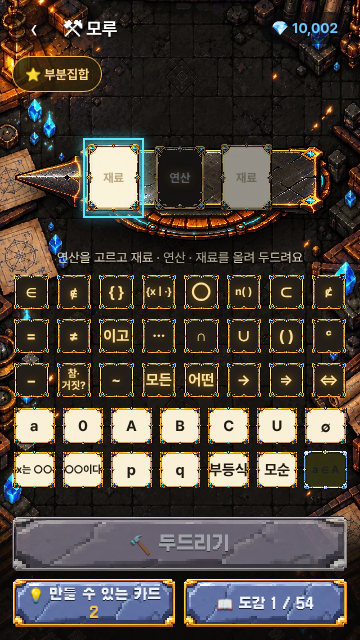
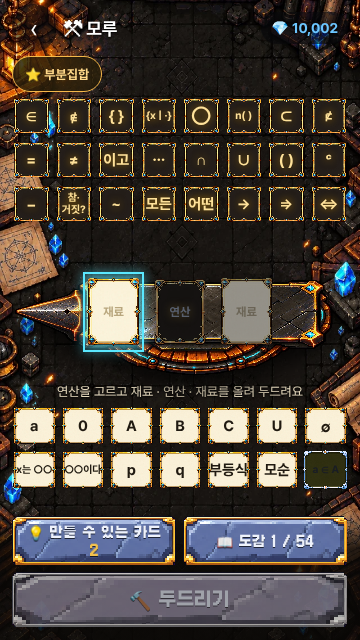
b36 #150 ⚒ 모루 배치 · 주요 단추 자리 · 📖 도감 특전 3줄
- ① 줄 순서 = ⭐ 찜 → 연산 카드 줄(위) → 모루 판(가운데) → 재료 카드 줄(아래) → 💡 · 📖 줄 → 🔨 두드리기(맨 아래)
- 모루 모든 화면 주요 단추 = 맨 아래 같은 자리 · 같은 크기: ① 🔨 두드리기 · ② ✨ 마력 넣기 · ③ 💡 목록 「⚒ 모루로」 · ④ 도감 「⚒ 모루로」(💡 목록 = 시트 → 화면)
- 📖 도감 특전 3줄(정식 PERKS · 문구 · 값 그대로): 🧑 성기사 발도르 1~3차시(부분집합의 개수 빼고) · 무희 셰라 4~6 · 음유시인 리라 8~11 · 「💎 60 먼저 열기」 · 다 모으면 열림 · 💎 로 먼저 열었으면 돌려받음
- 시험: e2e anvil(줄 순서 · 네 화면 주요 단추 top 572 · 높이 56 같음 · 특전 3줄 · 11 테마 넘침 0)

Claude-Session: https://claude.ai/code/session_014JJv1kfRHM8SAjsHDCgfJ5

diff --git a/src/ui/forge/Anvil.svelte b/src/ui/forge/Anvil.svelte
@@ -9,6 +9,9 @@
   import Sheet from '../battle/Sheet.svelte';
   import RuneKeypad from '../q/RuneKeypad.svelte';
   import ForgeCard from './ForgeCard.svelte';
+  import HeroSprite from '../camp/HeroSprite.svelte';
+  import { heroOf } from '../../model/hero';
+  import { ECON_VER } from '../../model/wallet';
 
   // ⚒ 모루 (#148 · 정식 js/raid/forge.js 「C안」 + 시안 44dEkAKGELJTBPUs2gkwnD ①~④) — 정식 그림 · 틀 그대로(forgec 바탕 · 모루 · 재료 흰 틀 · 연산 검은 틀 · 고른 칸 푸른 빛 · 망치)
   //   엄격 연성 · 모두 열림(진도 상관없음) · 처음 만든 카드 = 마력 예제를 맞혀야 완성 · 실패 = 💡 힌트 조각 +1(최대 9 · 처음 2) · 첫 카드 💎 +3(하루 한도 밖) · 카드는 공격에 안 씀
@@ -74,13 +77,34 @@
     const c = exam; exam = null;
     strike().then(() => (reveal = { c, first: true }));
   }
+  // 📖 도감 특전 (정식 PERKS · 문구 · 값 그대로): 그 차시 카드를 다 모으면 용사 열림 · 💎 로 먼저 열기 → 다 모으면 돌려받음(되팔기 아님)
+  const PERKS = SUBJ.forge!.perks ?? [];
+  const perkCards = (p: { a: number; b: number; skip?: string }) => U.CARDS.filter((c) => c.no >= p.a && c.no <= p.b && c.id !== p.skip);
+  const heroName = (id: number) => `${heroOf(id).job} ${heroOf(id).name}`;
+  const bought = (id: number) => me.wallet.buys.some((b) => b.id === `hero_${id}`);
+  const logHas = (k: string) => (me.wallet.log || []).includes(k);
+  let ptoast = $state('');
+  function buyPerk(id: number) {
+    const price = heroOf(id).price ?? 0;
+    if (me.wallet.gem < price || !window.confirm(`💎 ${price} 로 🧑 ${heroName(id)}를 먼저 열까요?\n그 차시 카드를 다 모으면 💎 ${price} 를 돌려받아요 (되팔기는 안 돼요).`)) return;
+    me.wallet.gem -= price; me.wallet.buys = [...me.wallet.buys, { id: `hero_${id}`, ver: ECON_VER, at: Date.now() }]; save();
+    ptoast = `🧑 ${heroName(id)} 열림! 🧙 내 용사에서 골라요`; setTimeout(() => (ptoast = ''), 3000);
+  }
+  function perkCheck(newId: string) {
+    const p = PERKS.find((x) => perkCards(x).some((c) => c.id === newId)); if (!p || logHas(`perk_${p.id}`)) return;
+    if (!perkCards(p).every((c) => me.cards?.[c.id])) return;
+    const price = heroOf(p.id).price ?? 0, was = bought(p.id);
+    if (was) me.wallet.gem += price; else me.wallet.buys = [...me.wallet.buys, { id: `hero_${p.id}`, ver: ECON_VER, at: Date.now() }];
+    me.wallet.log = [...(me.wallet.log || []), `perk_${p.id}`]; save();
+    ptoast = `🎉 🧑 ${heroName(p.id)} 열림!${was ? ` · 💎 ${price} 돌려받았어요` : ''}`; setTimeout(() => (ptoast = ''), 4500);
+  }
   function keep() {
     if (!reveal) return;
-    if (reveal.first) { me.cards = { ...(me.cards || {}), [reveal.c.id]: true }; me.wallet.gem += 3; save(); } // 첫 카드 💎 +3 (하루 한도 밖 · 정식 G.card)
+    if (reveal.first) { me.cards = { ...(me.cards || {}), [reveal.c.id]: true }; me.wallet.gem += 3; save(); perkCheck(reveal.c.id); } // 첫 카드 💎 +3 (하루 한도 밖 · 정식 G.card)
     reveal = null; slots = { l: null, op: null, r: null }; pickK = 'l'; msg = '연산을 고르고 재료 · 연산 · 재료를 올려 두드려요';
   }
   // ── ③ 💡 목록 · ④ 도감 ──
-  let view = $state<'forge' | 'book'>('forge'), listOpen = $state(false), focusId = $state('');
+  let view = $state<'forge' | 'list' | 'book'>('forge'), focusId = $state('');
   const haveN = $derived(U.CARDS.filter((c) => owned[c.id]).length);
   const nos = [...new Set(U.CARDS.map((c) => c.no))].sort((a, b) => a - b);
   const secOf = (n: number) => [...new Set(U.CARDS.filter((c) => c.no === n).map((c) => c.sec))].join(' · ');
@@ -91,9 +115,10 @@
 </script>
 
 <div class="fg" role="dialog" aria-label="모루" style:--bg="url({IMG.bg})" style:--mat="url({IMG.mat})" style:--op="url({IMG.op})" style:--pick="url({IMG.pick})">
-  <div class="bar"><button type="button" class="back" aria-label={view === 'book' ? '모루로' : '캠프로'} onclick={() => (view === 'book' ? (view = 'forge') : onclose())}>‹</button><b class="t">{view === 'book' ? '📖 도감' : '⚒ 모루'}</b><span class="wal">💎 {me.wallet.gem.toLocaleString()}</span></div>
+  <div class="bar"><button type="button" class="back" aria-label={view !== 'forge' ? '모루로' : '캠프로'} onclick={() => (view !== 'forge' ? (view = 'forge') : onclose())}>‹</button><b class="t">{view === 'book' ? '📖 도감' : view === 'list' ? '💡 만들 수 있는 카드' : '⚒ 모루'}</b><span class="wal">💎 {me.wallet.gem.toLocaleString()}</span></div>
   {#if view === 'forge'}
-    {#if wishCards.length}<div class="wishes" role="group" aria-label="찜한 카드">{#each wishCards as c (c.id)}<button type="button" onclick={() => { focusId = c.id; listOpen = true; }}>⭐ {c.short || c.name}</button>{/each}</div>{/if}
+    {#if wishCards.length}<div class="wishes" role="group" aria-label="찜한 카드">{#each wishCards as c (c.id)}<button type="button" onclick={() => { focusId = c.id; view = 'list'; }}>⭐ {c.short || c.name}</button>{/each}</div>{/if}
+    <div class="shelf ops" role="group" aria-label="연산">{#each U.OPS as o (o.id)}<button type="button" class="tile op mini" class:on={slots.op === o.id} class:long={o.sym.length > 3} onclick={() => putOp(o.id)}>{o.sym}</button>{/each}</div>
     <div class="stage" class:impact bind:this={stage}>
       <img class="anvil" src={IMG.anvil} alt="" />
       <div class="slots" class:shake>
@@ -105,37 +130,44 @@
       {#each sparks as s, k (k)}<i class="spark" style:left="{s.x}%" style:--dx="{s.dx}px" style:--dy="{s.dy}px"></i>{/each}
     </div>
     <p class="msg" class:bad>{msg}</p>
-    <div class="shelf ops" role="group" aria-label="연산">{#each U.OPS as o (o.id)}<button type="button" class="tile op mini" class:on={slots.op === o.id} class:long={o.sym.length > 3} onclick={() => putOp(o.id)}>{o.sym}</button>{/each}</div>
     <div class="shelf mats" role="group" aria-label="재료">{#each U.MATS as m (m.id)}<button type="button" class="tile mat mini" class:long={m.sym.length > 3} title={m.tip} onclick={() => put(m.id)}>{m.sym}</button>{/each}{#each putCards as c (c.id)}<button type="button" class="tile mat mini card long" title={c.name} onclick={() => put(`card:${c.id}`)}>{cardFm(c)}</button>{/each}</div>
     <div class="act">
-      <button type="button" class="btn" disabled={!full || busy} onclick={hit}>🔨 두드리기</button>
-      <div class="row2"><button type="button" class="btn2" onclick={() => { focusId = ''; listOpen = true; }}>💡 만들 수 있는 카드 <b>{hint.pts}</b></button><button type="button" class="btn2" onclick={() => (view = 'book')}>📖 도감 {haveN} / {U.CARDS.length}</button></div>
+      <div class="row2"><button type="button" class="btn2" onclick={() => { focusId = ''; view = 'list'; }}>💡 만들 수 있는 카드 <b>{hint.pts}</b></button><button type="button" class="btn2" onclick={() => (view = 'book')}>📖 도감 {haveN} / {U.CARDS.length}</button></div>
+      <button type="button" class="btn main" disabled={!full || busy} onclick={hit}>🔨 두드리기</button>
     </div>
+  {:else if view === 'list'}
+    <!-- ③ 💡 만들 수 있는 카드 -->
+    <div class="book">
+      <p class="why lt">🧩 힌트 조각 <b>{hint.pts}</b> · 두드리기에 실패하면 +1 (벌이 아니라 단서) · 조각으로 재료 → 연산 순서로 열어요</p>
+      {#each [...wishCards.filter((c) => !focusId || c.id === focusId), ...wishCards.filter((c) => focusId && c.id !== focusId)] as c (c.id)}{@render row(c, true)}{/each}
+      {#each nos as n (n)}{@const todo = U.CARDS.filter((c) => c.no === n && !owned[c.id] && !wishIds.has(c.id))}
+        <details class="grp" open={!focusId && n === nos.find((x) => U.CARDS.some((c) => c.no === x && !owned[c.id]))}><summary><b>{n}차시</b> <small>{secOf(n)}</small><span class:done={!todo.length}>해금 {U.CARDS.filter((c) => c.no === n && owned[c.id]).length} / {U.CARDS.filter((c) => c.no === n).length}</span></summary>
+          {#each todo as c (c.id)}{@render row(c, false)}{:else}<p class="why lt">🎉 이 차시 카드를 모두 만들었어요!</p>{/each}</details>
+      {/each}
+    </div>
+    <div class="act"><button type="button" class="btn main" onclick={() => (view = 'forge')}>⚒ 모루로</button></div>
   {:else}
     <!-- ④ 도감 -->
     <div class="bk-h"><b>모은 카드 {haveN} / {U.CARDS.length}</b><i class="bar2"><i style:width="{(haveN / U.CARDS.length) * 100}%"></i></i></div>
     <div class="chips" role="group" aria-label="거르기"><button type="button" class:on={chip === 'all'} onclick={() => (chip = 'all')}>전체</button><button type="button" class:on={chip === 'wish'} onclick={() => (chip = 'wish')}>⭐ 찜</button>{#each nos as n (n)}<button type="button" class:on={chip === n} onclick={() => (chip = n)}>{n}</button>{/each}</div>
     <div class="book">
+      {#if chip === 'all'}{@render perks()}{/if}
       {#each nos as n (n)}{@const cs = bookCards(n)}{#if cs.length}
         <h3>{n}차시 · {secOf(n)} · <em>{U.CARDS.filter((c) => c.no === n && owned[c.id]).length} / {U.CARDS.filter((c) => c.no === n).length}</em></h3>
         <div class="grid">{#each cs as c (c.id)}<button type="button" class="cw" aria-label={owned[c.id] || wishIds.has(c.id) ? c.name : '아직 못 만든 카드'} onclick={() => (zoom = c)}><ForgeCard card={c} w={100} unknown={!owned[c.id]} wish={!owned[c.id] && wishIds.has(c.id)} /></button>{/each}</div>
       {/if}{/each}
     </div>
+    <div class="act"><button type="button" class="btn main" onclick={() => (view = 'forge')}>⚒ 모루로</button></div>
   {/if}
 </div>
 
-{#if listOpen}
-  <!-- ③ 💡 만들 수 있는 카드 -->
-  <Sheet onclose={() => (listOpen = false)} tall mainText="닫기">
-    {#snippet title()}💡 만들 수 있는 카드 · 🧩 {hint.pts}{/snippet}
-    <p class="why">두드리기에 실패하면 🧩 힌트 조각 +1 (벌이 아니라 단서) · 조각으로 재료 → 연산 순서로 열어요</p>
-    {#each [...wishCards.filter((c) => !focusId || c.id === focusId), ...wishCards.filter((c) => focusId && c.id !== focusId)] as c (c.id)}{@render row(c, true)}{/each}
-    {#each nos as n (n)}{@const todo = U.CARDS.filter((c) => c.no === n && !owned[c.id] && !wishIds.has(c.id))}
-      <details class="grp" open={!focusId && n === nos.find((x) => U.CARDS.some((c) => c.no === x && !owned[c.id]))}><summary><b>{n}차시</b> <small>{secOf(n)}</small><span class:done={!todo.length}>해금 {U.CARDS.filter((c) => c.no === n && owned[c.id]).length} / {U.CARDS.filter((c) => c.no === n).length}</span></summary>
-        {#each todo as c (c.id)}{@render row(c, false)}{:else}<p class="why">🎉 이 차시 카드를 모두 만들었어요!</p>{/each}</details>
-    {/each}
-  </Sheet>
-{/if}
+
+{#snippet perks()}
+  <div class="perks">{#each PERKS as p (p.id)}{@const cs = perkCards(p)}{@const got = cs.filter((c) => owned[c.id]).length}{@const done = cs.length > 0 && got === cs.length}{@const price = heroOf(p.id).price}
+    <div class="perk" class:done><span class="ph"><HeroSprite id={p.id} scale={1} /></span><span class="tx"><b>🧑 {heroName(p.id)}</b><small>{p.a}~{p.b}차시 카드 {got} / {cs.length}</small><i class="pb"><i style:width="{cs.length ? (100 * got) / cs.length : 0}%"></i></i></span>
+      {#if done || logHas(`perk_${p.id}`)}<span class="ok">✔ 열림</span>{:else if bought(p.id)}<span class="ok sm">💎 로 열림 · 다 모으면 돌려받음</span>{:else if price != null}<button type="button" onclick={() => buyPerk(p.id)}>💎 {price} 먼저 열기</button>{/if}</div>
+  {/each}</div>
+{/snippet}
 {#snippet row(c: Card, wished: boolean)}
   {@const lv = hint.lv[c.id] || 0}
   {@const op = U.opOf(c.op)}
@@ -159,9 +191,10 @@
         {#if exWrong}<p class="wr">❌ 마력이 모자라요… 해설: {exQ.solution} · 다시 골라요 (벌 없음)</p>{/if}
       </div>
     </div>
-    <div class="act"><button type="button" class="btn" disabled={exAns == null} onclick={exSubmit}>✨ 마력 넣기</button></div>
+    <div class="act"><button type="button" class="btn main" disabled={exAns == null} onclick={exSubmit}>✨ 마력 넣기</button></div>
   </div>
 {/if}
+{#if ptoast}<p class="ptoast" role="status">{ptoast}</p>{/if}
 {#if reveal}
   <div class="ov rv" role="dialog" aria-label="카드 완성">
     <b class="new">{reveal.first ? 'NEW CARD!' : '이미 가진 카드'}</b>
@@ -232,7 +265,10 @@
   .grid { display: grid; grid-template-columns: repeat(3, minmax(0, 1fr)); gap: 8px; justify-items: center; }
   .cw { border: 0; background: none; padding: 0; }
   .why { margin: 0; font-size: 13px; color: var(--text-2); }
+  .lt { color: #e8dcc0; text-shadow: 0 1px 2px #000; margin: 4px 0 8px; } .lt b { color: #ffd98a; }
+  .grp { background: rgba(20, 16, 12, 0.85); border-radius: var(--r); padding: 0 10px; margin-bottom: 6px; color: var(--text); }
   .grp summary { display: flex; align-items: center; gap: 8px; min-height: 44px; cursor: pointer; } .grp summary small { flex: 1; color: var(--text-2); } .grp summary span { font-size: 12.5px; color: var(--text-2); } .grp summary span.done { color: var(--ok); }
+  .book > .hr { background: rgba(20, 16, 12, 0.9); color: var(--text); }
   .hr { display: grid; grid-template-columns: 1fr auto; gap: 4px 8px; align-items: center; padding: 8px 10px; border-radius: var(--r); background: var(--surface-2); margin-bottom: 6px; }
   .hr.wished { border: 2px solid var(--accent); } .hr.focus { box-shadow: 0 0 0 3px color-mix(in srgb, var(--accent) 40%, transparent); }
   .hr .tx { display: flex; flex-direction: column; gap: 2px; } .hr .tx small { font-size: 12.5px; color: var(--text-2); }
@@ -249,5 +285,12 @@
   .wr { margin: 0; padding: 8px 10px; border-radius: 10px; background: var(--bad-bg); font-size: 13.5px; }
   .new { font-size: 26px; color: #ffd25a; letter-spacing: 2px; text-shadow: 0 0 12px #ff9a2a; } .nm { font-size: 20px; color: #fff; } .gem3 { color: var(--gem); }
   .rv .btn { width: 100%; max-width: 360px; }
+  .perks { display: flex; flex-direction: column; gap: 6px; margin: 4px 0 8px; }
+  .perk { display: flex; align-items: center; gap: 8px; padding: 6px 10px; border-radius: var(--r); background: rgba(20, 16, 12, 0.88); border: 1px solid #6b5a3a; color: var(--text); }
+  .perk.done { border-color: #f5b84a; } .perk .ph { flex: none; } .perk .tx { flex: 1; min-width: 0; display: flex; flex-direction: column; gap: 3px; } .perk small { font-size: 12px; color: var(--text-2); }
+  .pb { display: block; height: 6px; border-radius: 3px; background: rgba(0, 0, 0, 0.5); } .pb i { display: block; height: 6px; border-radius: 3px; background: #f5b84a; }
+  .perk .ok { flex: none; font-size: 12.5px; font-weight: 700; color: var(--ok); } .perk .ok.sm { max-width: 92px; font-size: 11.5px; color: var(--gem); }
+  .perk button { flex: none; height: 40px; padding: 0 10px; border-radius: 10px; border: 1px solid var(--gem); background: none; color: var(--gem); font: 700 12.5px var(--font); }
+  .ptoast { position: fixed; left: 50%; top: 64px; transform: translateX(-50%); z-index: 30; margin: 0; padding: 8px 14px; border-radius: 12px; background: var(--surface); font-weight: 700; white-space: nowrap; }
   .zm { display: flex; flex-direction: column; align-items: center; gap: 8px; text-align: center; } .zm p { margin: 0; }
 </style>

diff --git a/src/model/subject.ts b/src/model/subject.ts
@@ -27,7 +27,7 @@ export interface Subject {
   /** ⭐ 기호 → 모루 카드 */
   cards?: { bySym: Record<string, SymCard>; wishLeft(wishes: Record<string, true> | undefined, made: Record<string, true> | undefined): number };
   /** ⚒ 모루 연성법 (#148 · 정식 unit-set.js 원문) · 카드 그림 틀 */
-  forge?: { unit: import('./forge').ForgeUnit; kit: import('./forge').CardKit };
+  forge?: { unit: import('./forge').ForgeUnit; kit: import('./forge').CardKit; perks?: { id: number; a: number; b: number; skip?: string }[] };
   /** 오개념 사전 (세특 문구) */
   misconceptions: Record<string, { name?: string; seteuk: string; [k: string]: unknown }>;
   standards: { id: string; name: string; lessons: number[] }[];

diff --git a/src/subjects/common-math2/index.ts b/src/subjects/common-math2/index.ts
@@ -1,4 +1,4 @@
-import { CARD_KIT, UNIT } from './forge';
+import { CARD_KIT, PERKS, UNIT } from './forge';
 import type { LessonPack, Question } from '../../model/types';
 import type { Subject } from '../../model/subject';
 import DATA from './subject.json';
@@ -24,7 +24,7 @@ const SUBJECT: Subject = {
   generators: { gens: GENS, chains: CHAIN_GENS, boss: BOSS_GENS },
   symtalk: { BY, segments },
   cards: { bySym: SYM_CARD, wishLeft },
-  forge: { unit: UNIT, kit: CARD_KIT },
+  forge: { unit: UNIT, kit: CARD_KIT, perks: PERKS },
   misconceptions: MIS,
   standards: DATA.standards,
   lessonList: DATA.lessonList,

diff --git a/src/subjects/common-math2/forge/index.ts b/src/subjects/common-math2/forge/index.ts
@@ -9,3 +9,5 @@ const win: any = { DS: {} };
 new Function('window', `var DS = window.DS = window.DS || {};\n${SRC}`)(win);
 export const UNIT = win.DS.Unit as ForgeUnit;
 export const CARD_KIT = KIT as unknown as CardKit;
+/** 📖 도감 특전 3줄 (정식 forge.js PERKS 그대로): 그 차시 카드를 다 모으면 용사 열림 · 💎 로 먼저 열었으면 다 모은 때 돌려받음 */
+export const PERKS = [{ id: 8, a: 1, b: 3, skip: 'subcount' }, { id: 10, a: 4, b: 6 }, { id: 11, a: 8, b: 11 }];

diff --git a/src/build.ts b/src/build.ts
@@ -1,2 +1,2 @@
 // 판 번호 (테스트 버전 b1 · b2 …) — 바꿀 때 package.json version 도 같이
-export const BUILD = 'b35';
+export const BUILD = 'b36';
